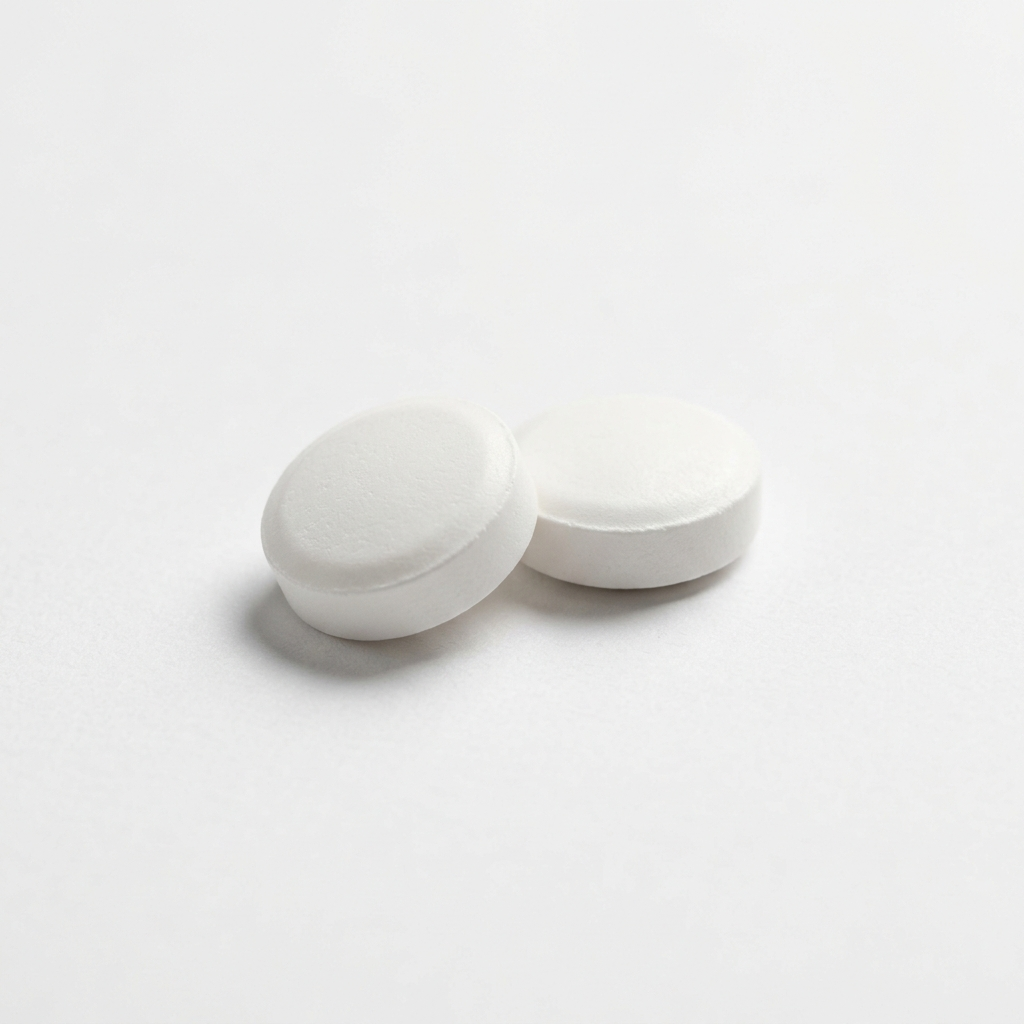
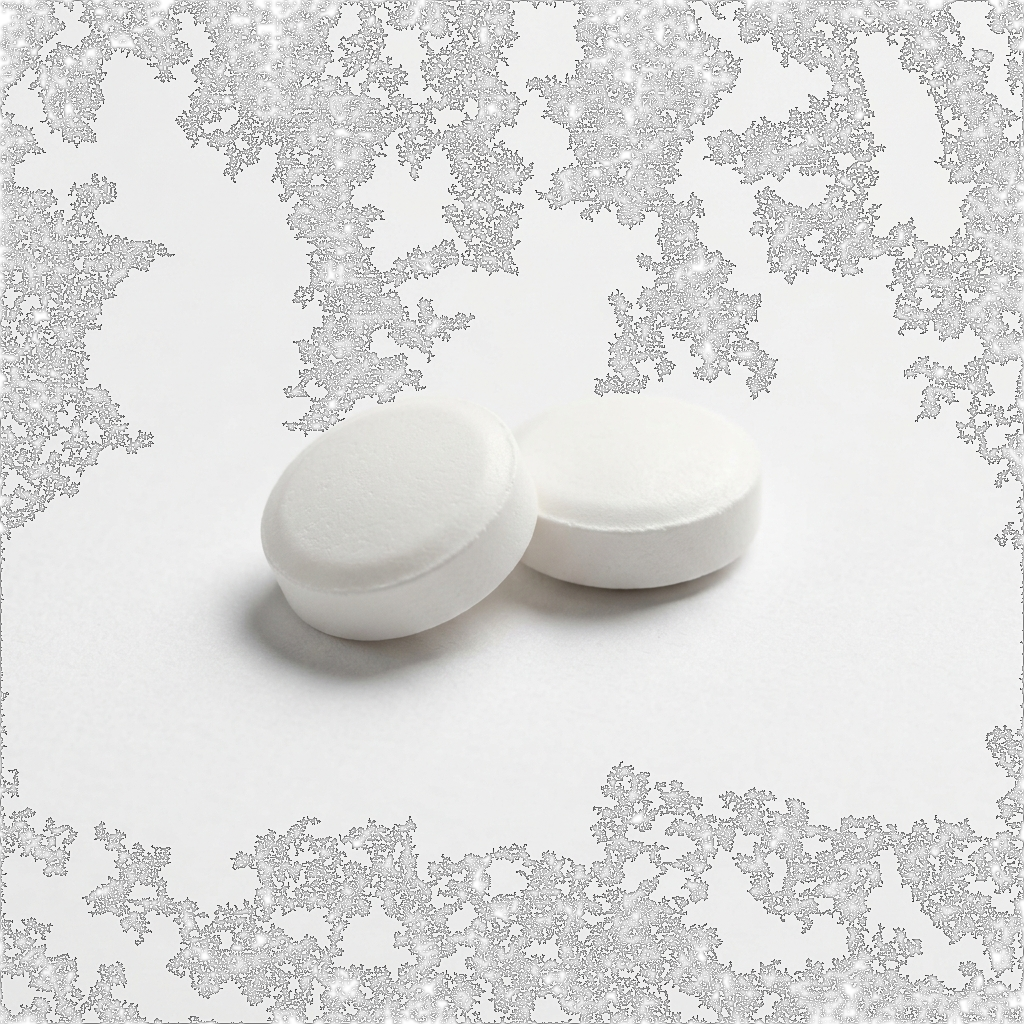
feat: make product images transparent for background blending and add hover animations

Changed region(s): [[0.0, 0.0, 1.0, 0.5312], [0.0, 0.6875, 1.0, 1.0], [0.0, 0.875, 0.1562, 1.0]]

diff --git a/index.html b/index.html
@@ -82,13 +82,13 @@
                 
                 <a href="#" class="small-card">
                     <span class="small-card-title">Stimulate muscle growth</span>
-                    <img src="blue_vial.png" alt="Vial" class="small-card-img">
+                    <img src="blue_vial_trans_v2.png" alt="Vial" class="small-card-img">
                     <span class="arrow">›</span>
                 </a>
                 
                 <a href="#" class="small-card">
                     <span class="small-card-title">Boost everyday health</span>
-                    <img src="gray_vial.png" alt="Supplements" class="small-card-img">
+                    <img src="gray_vial_trans_v2.png" alt="Supplements" class="small-card-img">
                     <span class="arrow">›</span>
                 </a>
             </div>
@@ -98,7 +98,7 @@
                     <!-- Card 1 -->
                     <div class="p-card">
                         <div class="p-card-image bg-blue">
-                            <img src="blue_vial.png" alt="Retatrutide" class="p-vial-img">
+                            <img src="blue_vial_trans_v2.png" alt="Retatrutide" class="p-vial-img">
                         </div>
                         <div class="p-card-info">
                             <span class="stock-badge in-stock">
@@ -117,7 +117,7 @@
                     <!-- Card 2 -->
                     <div class="p-card">
                         <div class="p-card-image bg-lightblue">
-                            <img src="blue_vial.png" alt="BPC-157 10mg" class="p-vial-img">
+                            <img src="blue_vial_trans_v2.png" alt="BPC-157 10mg" class="p-vial-img">
                         </div>
                         <div class="p-card-info">
                             <span class="stock-badge in-stock">
@@ -136,7 +136,7 @@
                     <!-- Card 3 -->
                     <div class="p-card">
                         <div class="p-card-image bg-blue">
-                            <img src="blue_vial.png" alt="GHK-Cu" class="p-vial-img">
+                            <img src="blue_vial_trans_v2.png" alt="GHK-Cu" class="p-vial-img">
                         </div>
                         <div class="p-card-info">
                             <span class="stock-badge in-stock">
@@ -155,7 +155,7 @@
                     <!-- Card 4 -->
                     <div class="p-card">
                         <div class="p-card-image bg-gray">
-                            <img src="gray_vial.png" alt="Tirzepatide 20mg" class="p-vial-img">
+                            <img src="gray_vial_trans_v2.png" alt="Tirzepatide 20mg" class="p-vial-img">
                         </div>
                         <div class="p-card-info">
                             <span class="stock-badge out-of-stock">
@@ -173,7 +173,7 @@
                     <!-- Card 5 -->
                     <div class="p-card">
                         <div class="p-card-image bg-lightblue">
-                            <img src="blue_vial.png" alt="Semaglutide 10mg" class="p-vial-img">
+                            <img src="blue_vial_trans_v2.png" alt="Semaglutide 10mg" class="p-vial-img">
                         </div>
                         <div class="p-card-info">
                             <span class="stock-badge in-stock">
@@ -192,7 +192,7 @@
                     <!-- Card 6 (Duplicate to ensure scroll) -->
                     <div class="p-card">
                         <div class="p-card-image bg-blue">
-                            <img src="blue_vial.png" alt="Liraglutide 5mg" class="p-vial-img">
+                            <img src="blue_vial_trans_v2.png" alt="Liraglutide 5mg" class="p-vial-img">
                         </div>
                         <div class="p-card-info">
                             <span class="stock-badge in-stock">

diff --git a/styles.css b/styles.css
@@ -271,6 +271,11 @@ a {
     width: auto;
     object-fit: contain;
     margin: 0 20px;
+    transition: transform 0.3s ease;
+}
+
+.small-card:hover .small-card-img {
+    transform: scale(1.08);
 }
 
 .arrow {
@@ -355,6 +360,12 @@ a {
     height: 65%;
     object-fit: contain;
     filter: drop-shadow(0 8px 16px rgba(0,0,0,0.1));
+    transition: transform 0.4s cubic-bezier(0.25, 1, 0.5, 1), filter 0.4s cubic-bezier(0.25, 1, 0.5, 1);
+}
+
+.p-card:hover .p-vial-img {
+    transform: scale(1.08) translateY(-4px);
+    filter: drop-shadow(0 12px 24px rgba(0,0,0,0.15));
 }
 
 .p-card-info {
